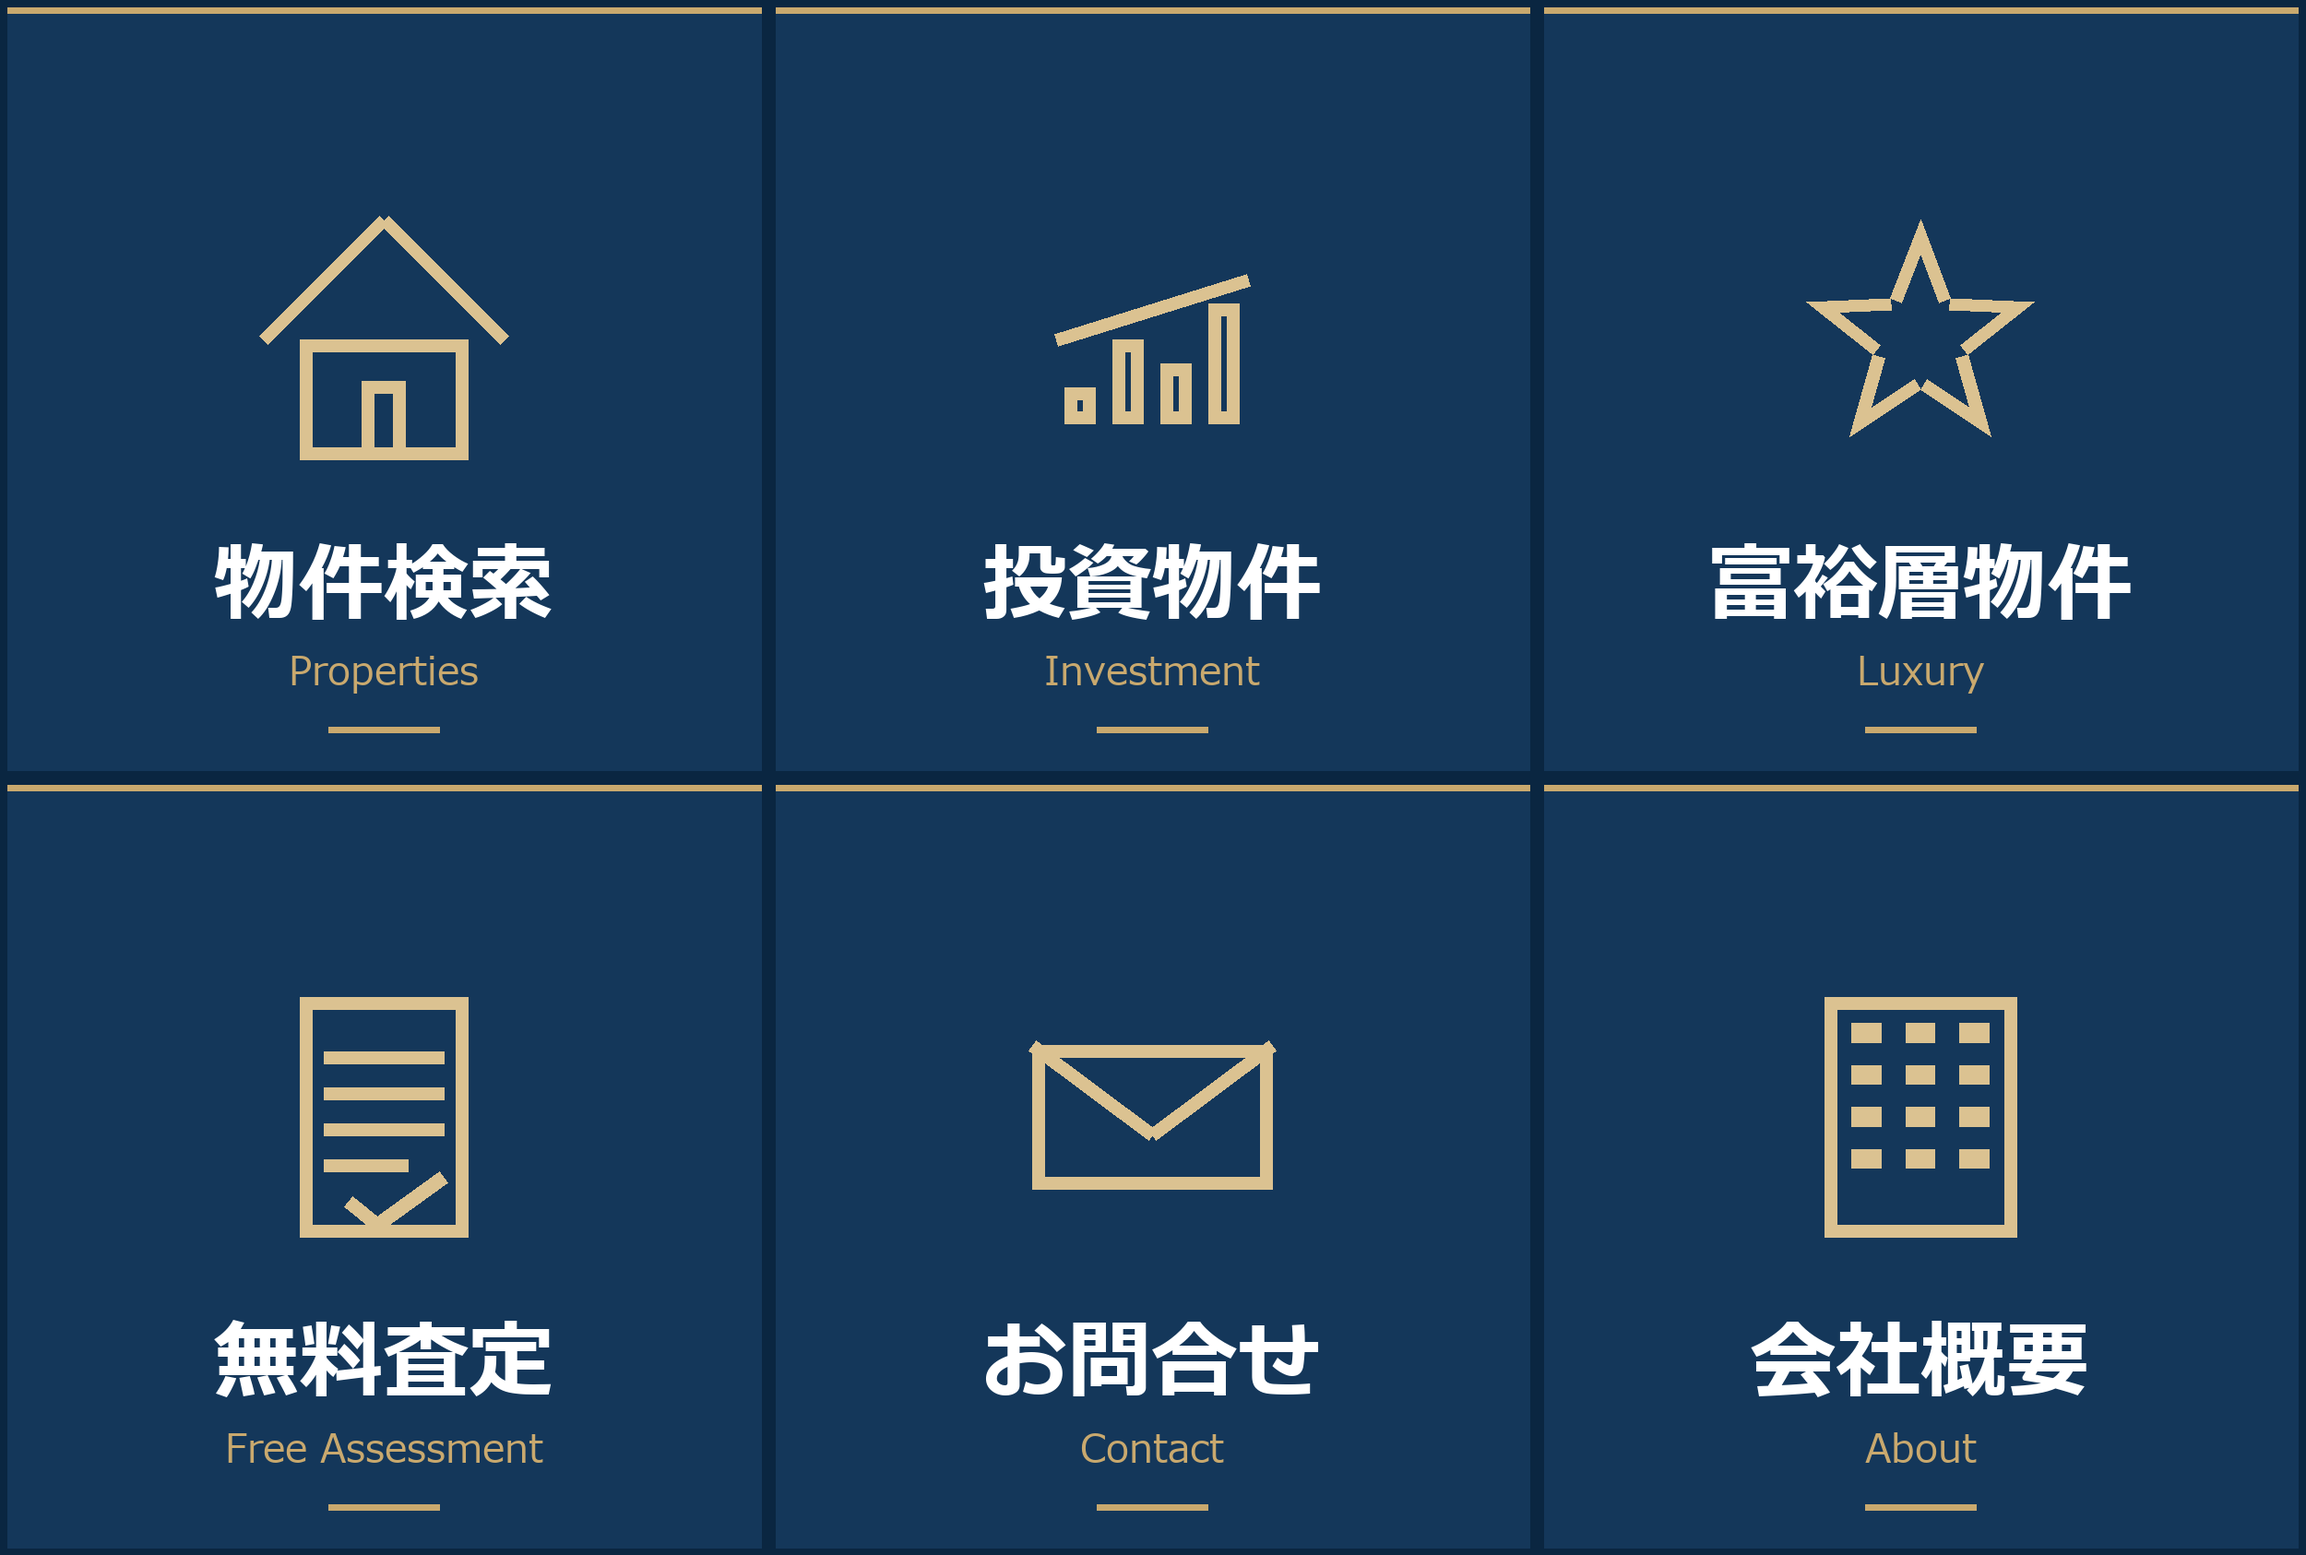
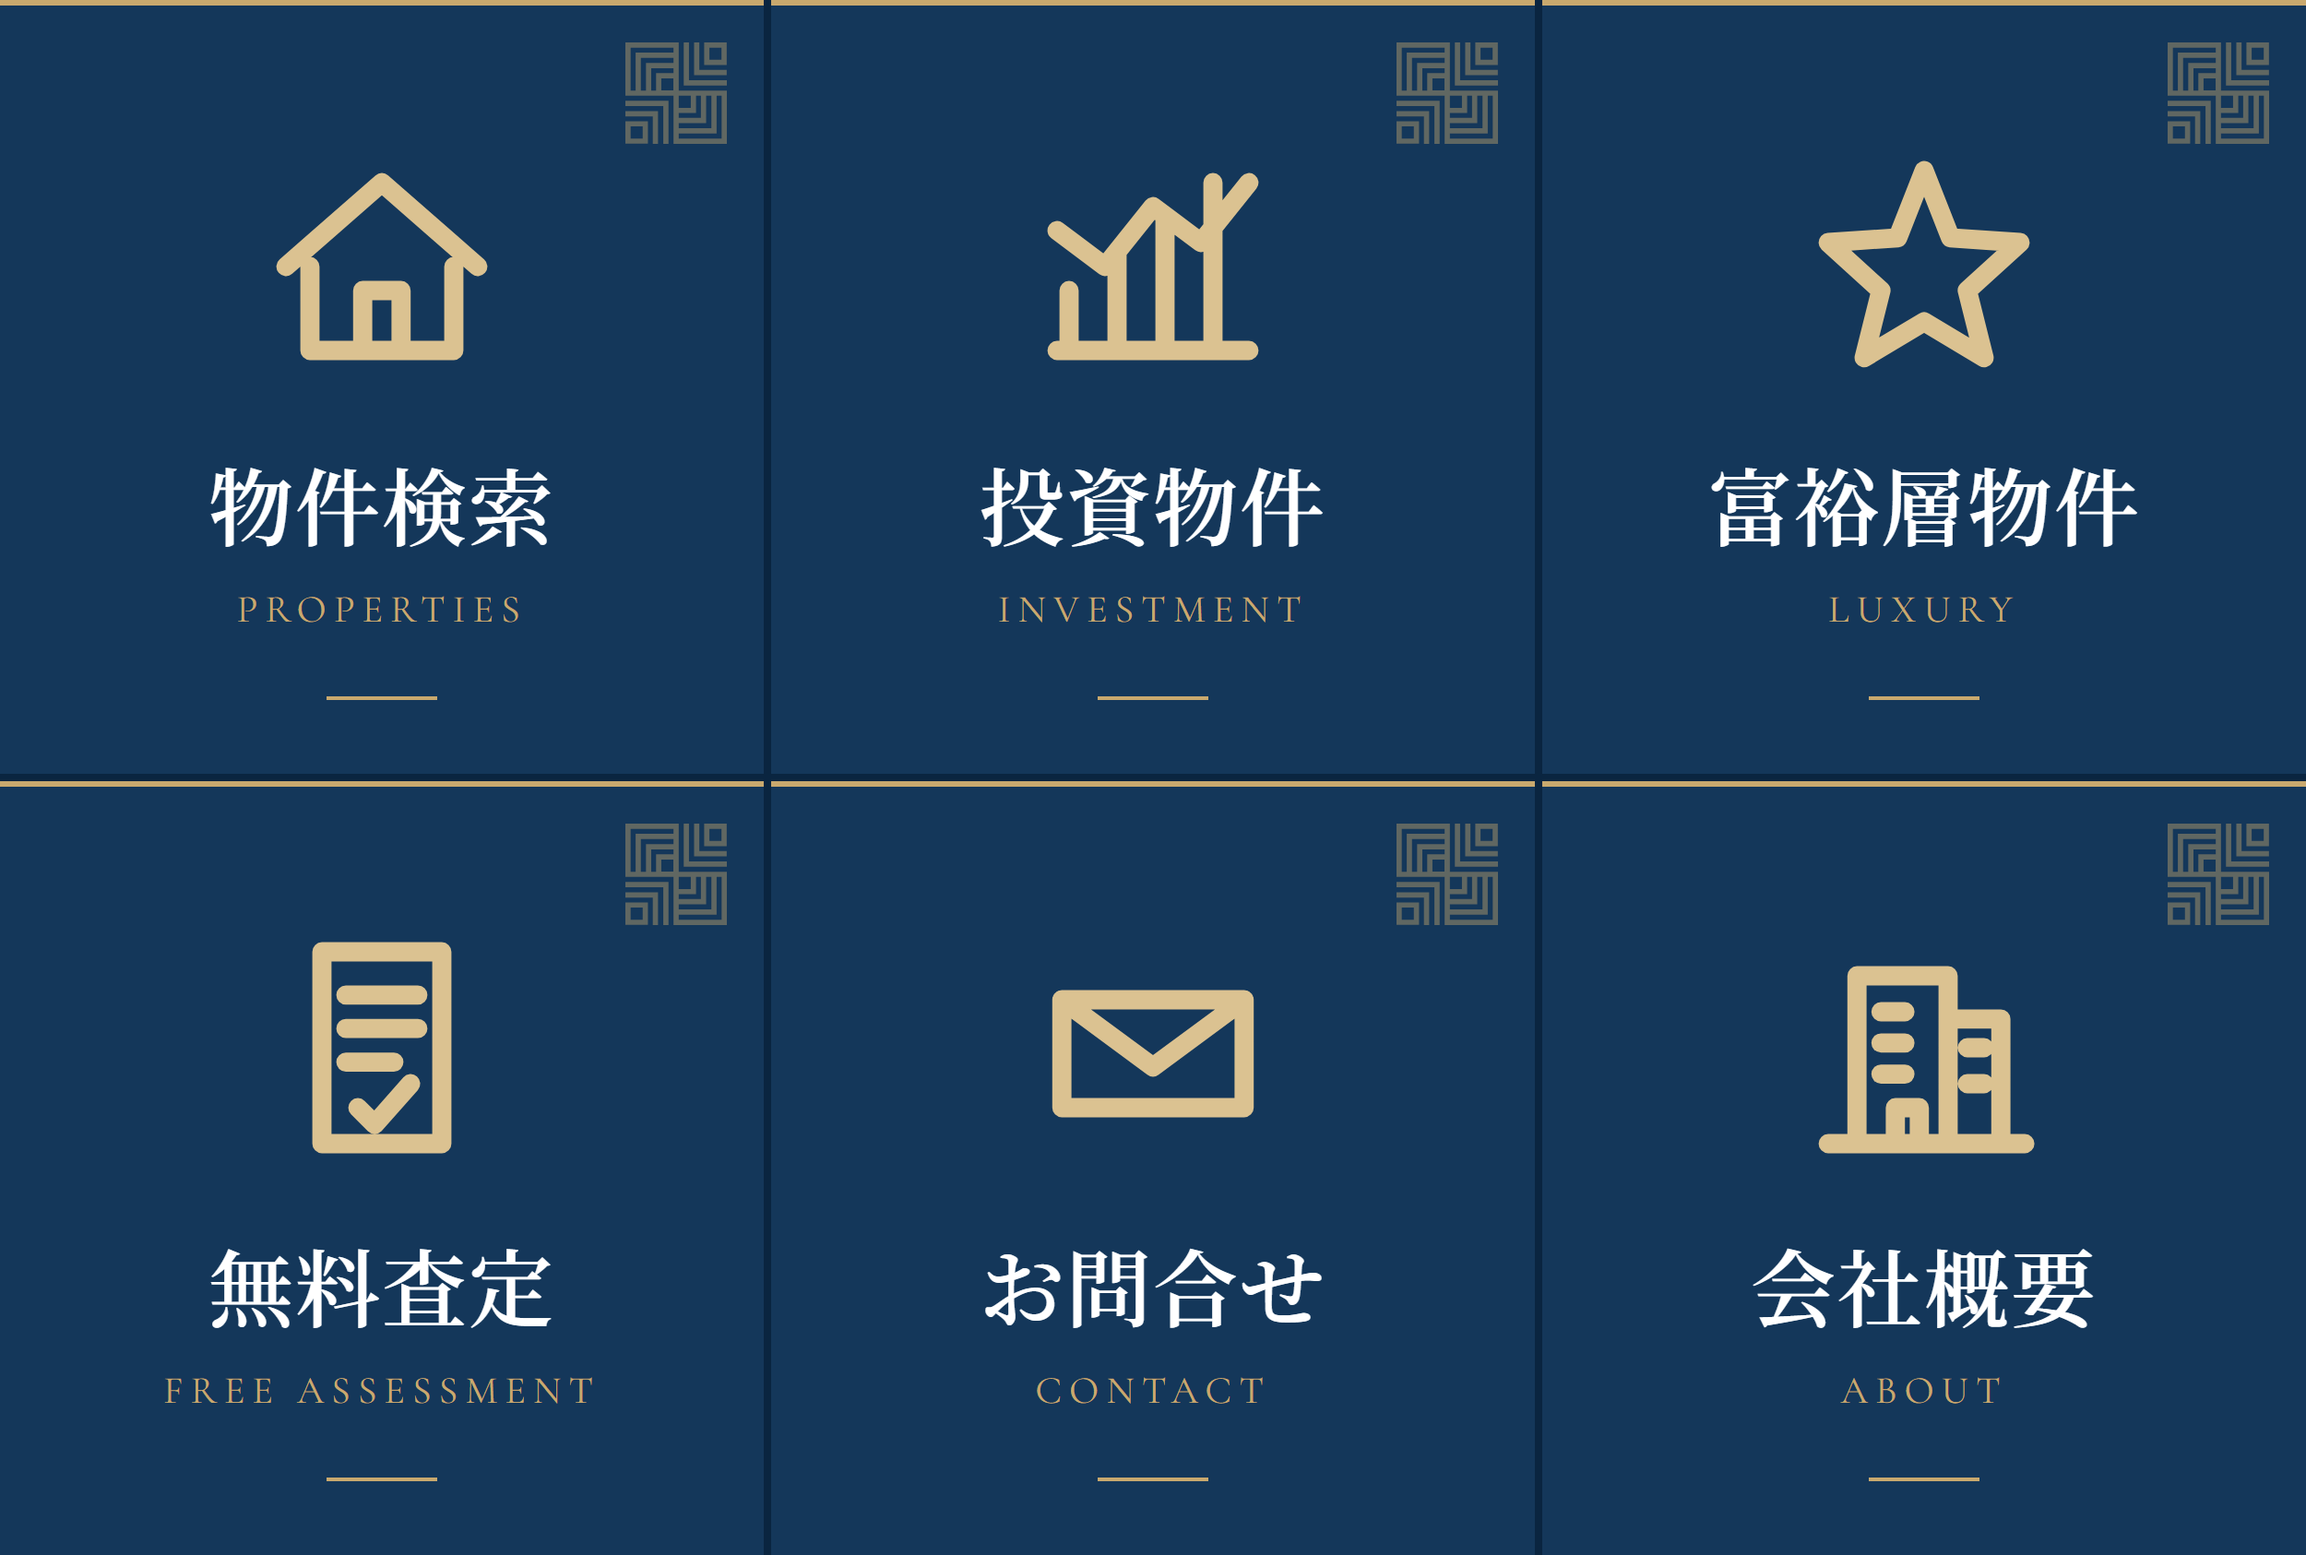
リッチメニュー画像に公式ブランドマークを追加

diff --git a/scripts/richmenu.html b/scripts/richmenu.html
@@ -1,0 +1,140 @@
+<!DOCTYPE html>
+<html>
+<head>
+<meta charset="UTF-8">
+<style>
+  @import url('https://fonts.googleapis.com/css2?family=Noto+Serif+JP:wght@500;600&family=Cormorant+Garamond:wght@400;500&display=swap');
+  * { margin: 0; padding: 0; box-sizing: border-box; }
+  html, body { width: 2500px; height: 1686px; overflow: hidden; }
+  body {
+    display: grid;
+    grid-template-columns: repeat(3, 1fr);
+    grid-template-rows: repeat(2, 1fr);
+    gap: 8px;
+    background: #0a2540;
+    font-family: 'Noto Serif JP', serif;
+  }
+  .cell {
+    background: #14375a;
+    position: relative;
+    display: flex;
+    flex-direction: column;
+    align-items: center;
+    justify-content: center;
+    padding: 40px;
+    border-top: 6px solid #c9a96e;
+  }
+  .cell::after {
+    content: '';
+    position: absolute;
+    bottom: 80px;
+    width: 120px;
+    height: 4px;
+    background: #c9a96e;
+  }
+  .brand-mark {
+    position: absolute;
+    top: 40px;
+    right: 40px;
+    width: 110px;
+    height: 110px;
+    opacity: 0.42;
+  }
+  .brand-mark path {
+    stroke: #c9a96e;
+    fill: none;
+    stroke-width: 4;
+    stroke-linecap: square;
+    stroke-miterlimit: 10;
+  }
+  .icon {
+    width: 260px;
+    height: 260px;
+    margin-bottom: 60px;
+    stroke: #dbc291;
+    fill: none;
+    stroke-width: 8;
+    stroke-linecap: round;
+    stroke-linejoin: round;
+  }
+  .jp {
+    font-size: 92px;
+    font-weight: 600;
+    color: #ffffff;
+    letter-spacing: 2px;
+    margin-bottom: 24px;
+  }
+  .en {
+    font-family: 'Cormorant Garamond', serif;
+    font-size: 42px;
+    color: #c9a96e;
+    letter-spacing: 8px;
+    text-transform: uppercase;
+  }
+  .brand-band {
+    position: absolute;
+    top: 0; left: 0; right: 0;
+    background: #0a2540;
+    padding: 18px 0;
+    display: flex;
+    align-items: center;
+    justify-content: center;
+    gap: 20px;
+    z-index: 10;
+    border-bottom: 2px solid #c9a96e;
+  }
+  .brand-band svg { height: 60px; }
+  .brand-band .wordmark {
+    font-family: 'Cormorant Garamond', serif;
+    font-size: 36px;
+    color: #f6f3ec;
+    letter-spacing: 6px;
+  }
+</style>
+</head>
+<body>
+  <!-- no brand band, richmenu guidelines prefer clean 6-cell -->
+  <div class="cell"><svg class="brand-mark" viewBox="0 0 77.4 77.4"><path d="M2 38.7h36.7v36.7m-7.8 0V46.5H2m20.9 28.9v-21H2m13.2 7.7H2v13.2h13.2V62.1zm23.5 13.3h36.7V38.7M38.7 67.5h28.9V38.7M38.7 59.6h20.9V38.7m-7.7 13.2V38.7H38.7v13.2h13.2zM38.7 2v36.7h36.7M46.5 2v28.9h28.9M54.4 2v20.9h20.9m-13.2-7.7h13.2V2H62.1v13.2zM38.7 2H2v36.7M38.7 9.8H9.8v28.9m28.9-21h-21v20.9m7.7-13.2v13.2h13.2V25.4H25.4z"/></svg>
+    <svg class="icon" viewBox="0 0 100 100">
+      <path d="M10 50 L50 15 L90 50 M20 50 L20 85 L80 85 L80 50 M42 85 L42 60 L58 60 L58 85"/>
+    </svg>
+    <div class="jp">物件検索</div>
+    <div class="en">Properties</div>
+  </div>
+  <div class="cell"><svg class="brand-mark" viewBox="0 0 77.4 77.4"><path d="M2 38.7h36.7v36.7m-7.8 0V46.5H2m20.9 28.9v-21H2m13.2 7.7H2v13.2h13.2V62.1zm23.5 13.3h36.7V38.7M38.7 67.5h28.9V38.7M38.7 59.6h20.9V38.7m-7.7 13.2V38.7H38.7v13.2h13.2zM38.7 2v36.7h36.7M46.5 2v28.9h28.9M54.4 2v20.9h20.9m-13.2-7.7h13.2V2H62.1v13.2zM38.7 2H2v36.7M38.7 9.8H9.8v28.9m28.9-21h-21v20.9m7.7-13.2v13.2h13.2V25.4H25.4z"/></svg>
+    <svg class="icon" viewBox="0 0 100 100">
+      <path d="M15 85 L15 60 M35 85 L35 45 M55 85 L55 30 M75 85 L75 15 M10 85 L90 85 M10 35 L30 50 L50 25 L70 40 L90 15"/>
+    </svg>
+    <div class="jp">投資物件</div>
+    <div class="en">Investment</div>
+  </div>
+  <div class="cell"><svg class="brand-mark" viewBox="0 0 77.4 77.4"><path d="M2 38.7h36.7v36.7m-7.8 0V46.5H2m20.9 28.9v-21H2m13.2 7.7H2v13.2h13.2V62.1zm23.5 13.3h36.7V38.7M38.7 67.5h28.9V38.7M38.7 59.6h20.9V38.7m-7.7 13.2V38.7H38.7v13.2h13.2zM38.7 2v36.7h36.7M46.5 2v28.9h28.9M54.4 2v20.9h20.9m-13.2-7.7h13.2V2H62.1v13.2zM38.7 2H2v36.7M38.7 9.8H9.8v28.9m28.9-21h-21v20.9m7.7-13.2v13.2h13.2V25.4H25.4z"/></svg>
+    <svg class="icon" viewBox="0 0 100 100">
+      <path d="M50 10 L61 38 L90 40 L68 60 L75 88 L50 73 L25 88 L32 60 L10 40 L39 38 Z"/>
+    </svg>
+    <div class="jp">富裕層物件</div>
+    <div class="en">Luxury</div>
+  </div>
+  <div class="cell"><svg class="brand-mark" viewBox="0 0 77.4 77.4"><path d="M2 38.7h36.7v36.7m-7.8 0V46.5H2m20.9 28.9v-21H2m13.2 7.7H2v13.2h13.2V62.1zm23.5 13.3h36.7V38.7M38.7 67.5h28.9V38.7M38.7 59.6h20.9V38.7m-7.7 13.2V38.7H38.7v13.2h13.2zM38.7 2v36.7h36.7M46.5 2v28.9h28.9M54.4 2v20.9h20.9m-13.2-7.7h13.2V2H62.1v13.2zM38.7 2H2v36.7M38.7 9.8H9.8v28.9m28.9-21h-21v20.9m7.7-13.2v13.2h13.2V25.4H25.4z"/></svg>
+    <svg class="icon" viewBox="0 0 100 100">
+      <path d="M25 10 L75 10 L75 90 L25 90 Z M35 28 L65 28 M35 42 L65 42 M35 56 L55 56 M40 75 L47 82 L62 65"/>
+    </svg>
+    <div class="jp">無料査定</div>
+    <div class="en">Free Assessment</div>
+  </div>
+  <div class="cell"><svg class="brand-mark" viewBox="0 0 77.4 77.4"><path d="M2 38.7h36.7v36.7m-7.8 0V46.5H2m20.9 28.9v-21H2m13.2 7.7H2v13.2h13.2V62.1zm23.5 13.3h36.7V38.7M38.7 67.5h28.9V38.7M38.7 59.6h20.9V38.7m-7.7 13.2V38.7H38.7v13.2h13.2zM38.7 2v36.7h36.7M46.5 2v28.9h28.9M54.4 2v20.9h20.9m-13.2-7.7h13.2V2H62.1v13.2zM38.7 2H2v36.7M38.7 9.8H9.8v28.9m28.9-21h-21v20.9m7.7-13.2v13.2h13.2V25.4H25.4z"/></svg>
+    <svg class="icon" viewBox="0 0 100 100">
+      <path d="M12 30 L88 30 L88 75 L12 75 Z M12 30 L50 58 L88 30"/>
+    </svg>
+    <div class="jp">お問合せ</div>
+    <div class="en">Contact</div>
+  </div>
+  <div class="cell"><svg class="brand-mark" viewBox="0 0 77.4 77.4"><path d="M2 38.7h36.7v36.7m-7.8 0V46.5H2m20.9 28.9v-21H2m13.2 7.7H2v13.2h13.2V62.1zm23.5 13.3h36.7V38.7M38.7 67.5h28.9V38.7M38.7 59.6h20.9V38.7m-7.7 13.2V38.7H38.7v13.2h13.2zM38.7 2v36.7h36.7M46.5 2v28.9h28.9M54.4 2v20.9h20.9m-13.2-7.7h13.2V2H62.1v13.2zM38.7 2H2v36.7M38.7 9.8H9.8v28.9m28.9-21h-21v20.9m7.7-13.2v13.2h13.2V25.4H25.4z"/></svg>
+    <svg class="icon" viewBox="0 0 100 100">
+      <path d="M22 90 L22 20 L60 20 L60 90 M60 38 L82 38 L82 90 M10 90 L92 90 M32 35 L42 35 M32 48 L42 48 M32 61 L42 61 M68 50 L75 50 M68 65 L75 65 M38 90 L38 75 L48 75 L48 90"/>
+    </svg>
+    <div class="jp">会社概要</div>
+    <div class="en">About</div>
+  </div>
+</body>
+</html>

diff --git a/scripts/render_richmenu.py b/scripts/render_richmenu.py
@@ -1,0 +1,18 @@
+"""Render richmenu.html to PNG using Playwright."""
+from pathlib import Path
+from playwright.sync_api import sync_playwright
+
+ROOT = Path(__file__).parent.parent
+HTML = ROOT / "scripts" / "richmenu.html"
+OUT = ROOT / "richmenu.png"
+
+with sync_playwright() as p:
+    browser = p.chromium.launch()
+    page = browser.new_page(viewport={"width": 2500, "height": 1686}, device_scale_factor=1)
+    page.goto(f"file:///{HTML.as_posix()}")
+    page.wait_for_load_state("networkidle")
+    page.wait_for_timeout(500)
+    page.screenshot(path=str(OUT), full_page=False, omit_background=False, clip={"x": 0, "y": 0, "width": 2500, "height": 1686})
+    browser.close()
+
+print(f"saved: {OUT} ({OUT.stat().st_size // 1024} KB)")
